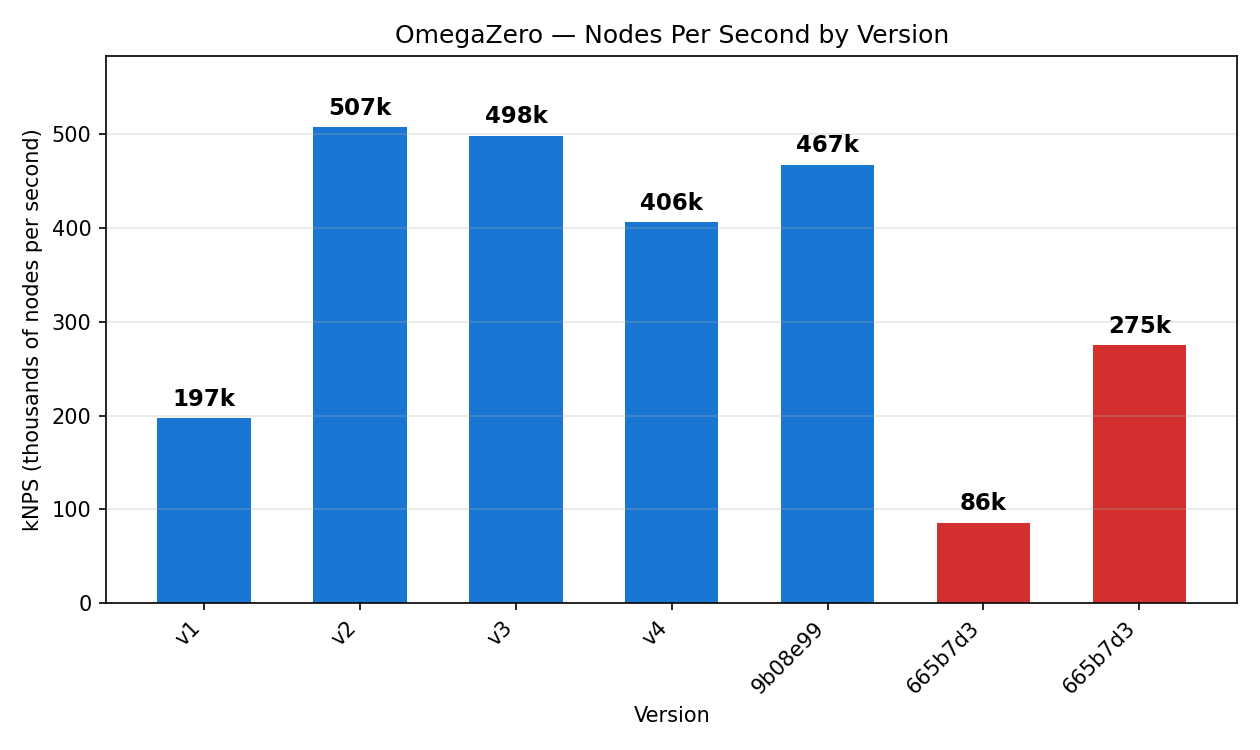
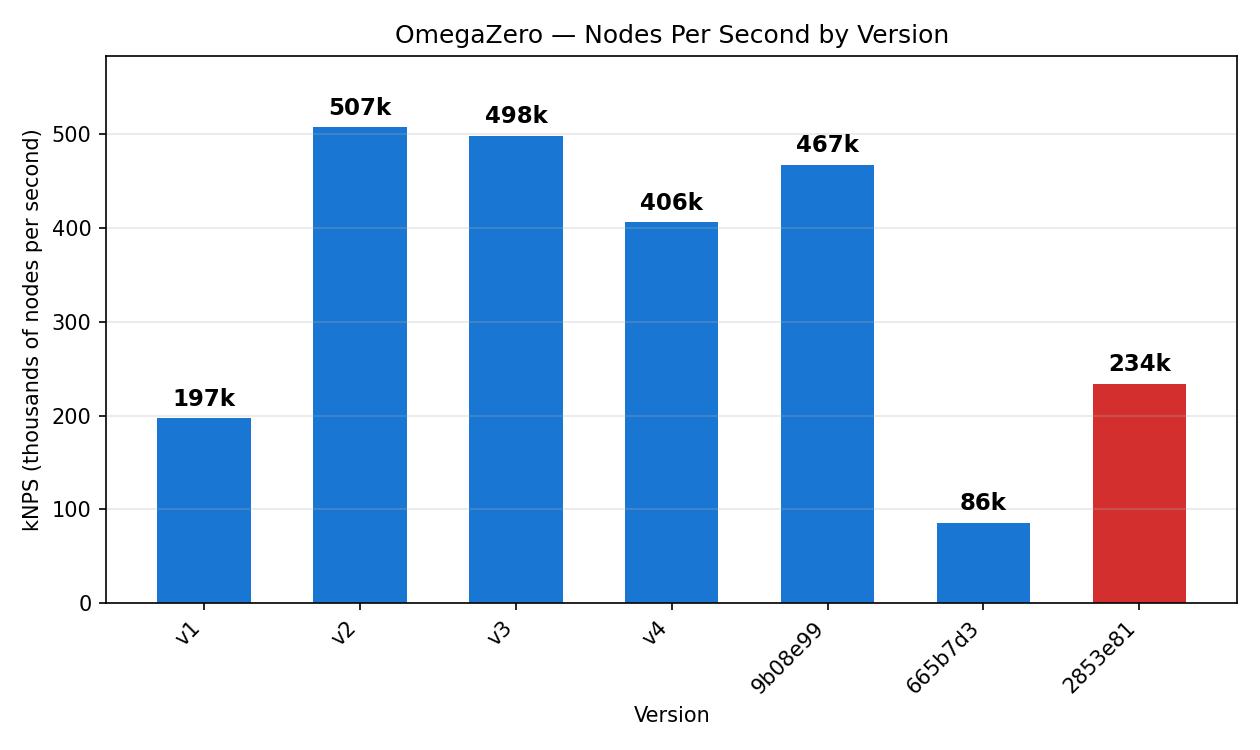
Fix UB bug and save off depth info during benchmarking

diff --git a/scripts/benchmark.py b/scripts/benchmark.py
@@ -13,6 +13,7 @@ Usage:
 import argparse
 import csv
 import os
+import re
 import subprocess
 import sys
 from datetime import datetime
@@ -61,75 +62,88 @@ def run_benchmark(args):
     print(f"Running benchmark ({args.st}s/position)...")
     proc = subprocess.run(
         [str(BENCH_BIN), str(args.st)],
-        capture_output=True, text=True, cwd=REPO_ROOT,
+        stdout=subprocess.PIPE, stderr=subprocess.PIPE, text=True, cwd=REPO_ROOT,
     )
+
+    if proc.stderr:
+        print(proc.stderr, end="")
 
     if proc.returncode != 0:
         print(f"Benchmark failed (exit {proc.returncode})")
-        if proc.stderr:
-            print(proc.stderr)
         sys.exit(1)
 
     lines = proc.stdout.strip().splitlines()
     if not lines:
         sys.exit("No output from benchmark")
 
+    depths = []
+    for line in proc.stderr.splitlines():
+        m = re.match(r"SEARCH DEPTH:\s+(\d+)", line)
+        if m:
+            depths.append(int(m.group(1)))
+
     reader = csv.DictReader(lines)
     rows = list(reader)
 
-    results_csv = run_dir / "results.csv"
-    with open(results_csv, "w", newline="") as f:
+    position_names = [r["position"] for r in rows if r["position"] != "average"]
+    for i, name in enumerate(position_names):
+        if i < len(depths):
+            rows[i]["depth"] = depths[i]
+        else:
+            rows[i]["depth"] = 0
+    for r in rows:
+        r.setdefault("depth", 0)
+
+    nps_csv = run_dir / "nps.csv"
+    with open(nps_csv, "w", newline="") as f:
         w = csv.DictWriter(f, fieldnames=["position", "nodes", "elapsed_s", "nps"])
         w.writeheader()
-        w.writerows(rows)
+        for r in rows:
+            w.writerow({k: r[k] for k in ["position", "nodes", "elapsed_s", "nps"]})
+
+    depths_csv = run_dir / "depths.csv"
+    with open(depths_csv, "w", newline="") as f:
+        w = csv.DictWriter(f, fieldnames=["position", "depth"])
+        w.writeheader()
+        for i, name in enumerate(position_names):
+            w.writerow({"position": name, "depth": depths[i] if i < len(depths) else 0})
 
     avg_row = next((r for r in rows if r["position"] == "average"), None)
     avg_nps = int(avg_row["nps"]) if avg_row else 0
     avg_knps = avg_nps // 1000
 
     print(f"\nResults for {run_name}:")
-    print(f"  {'Position':<12} {'NPS':>10}")
-    print(f"  {'-'*12} {'-'*10}")
+    print(f"  {'Position':<12} {'Depth':>6} {'NPS':>10}")
+    print(f"  {'-'*12} {'-'*6} {'-'*10}")
     for row in rows:
         nps_str = f"{int(row['nps']):,}"
-        print(f"  {row['position']:<12} {nps_str:>10}")
+        print(f"  {row['position']:<12} {row['depth']:>6} {nps_str:>10}")
     print(f"\n  Average NPS: {avg_knps}k")
 
     version = get_version_tag()
-    append_to_history(version, avg_knps, rows)
+    append_to_history(version, avg_knps)
     generate_plots(version)
 
     print(f"\n  Results saved to: {run_dir}")
 
 
-def append_to_history(version, avg_knps, rows):
+def append_to_history(version, avg_knps):
     RESULTS_BASE.mkdir(parents=True, exist_ok=True)
-    history_csv = RESULTS_BASE / "version_history.csv"
+    history_csv = RESULTS_BASE / "version_nps_history.csv"
     timestamp = datetime.now().strftime("%Y-%m-%d %H:%M:%S")
 
     file_exists = history_csv.exists()
     with open(history_csv, "a", newline="") as f:
-        w = csv.DictWriter(f, fieldnames=[
-            "timestamp", "version", "avg_knps",
-            "opening_nps", "midgame_nps",
-            "kiwipete_nps", "endgame_nps",
-        ])
+        w = csv.DictWriter(f, fieldnames=["timestamp", "version", "avg_knps"])
         if not file_exists:
             w.writeheader()
-
-        row_data = {"timestamp": timestamp, "version": version, "avg_knps": avg_knps}
-        for r in rows:
-            pos = r["position"]
-            if pos == "average":
-                continue
-            row_data[f"{pos}_nps"] = r["nps"]
-        w.writerow(row_data)
+        w.writerow({"timestamp": timestamp, "version": version, "avg_knps": avg_knps})
 
     print(f"  Version history: {history_csv}")
 
 
 def load_history():
-    history_csv = RESULTS_BASE / "version_history.csv"
+    history_csv = RESULTS_BASE / "version_nps_history.csv"
     if not history_csv.exists():
         return []
     with open(history_csv) as f:
@@ -199,7 +213,7 @@ def main():
         help="Search time per position in seconds (default: 5.0)",
     )
 
-    sub.add_parser("plot", help="Regenerate plots from version_history.csv")
+    sub.add_parser("plot", help="Regenerate plots from version_nps_history.csv")
 
     args = parser.parse_args()
 

diff --git a/src/engine.cc b/src/engine.cc
@@ -121,9 +121,6 @@ auto Engine::GetBestMove() -> Move {
     }
   }
 
-  // Report search depth, node count, and nodes/sec for performance profiling.
-  // total_nodes_ accumulates in batches of 4096 via CheckSearchTime();
-  // nodes_since_time_check_ holds the remainder that hasn't hit the threshold.
 #ifdef BENCHMARK
   {
     search_depth =

diff --git a/src/board.cc b/src/board.cc
@@ -48,6 +48,7 @@ Board::Board(const string& init_pos) {
     }
   }
   ep_target_sq_ = kNA;
+  halfmove_clock_ = kNA;
   // Initialize player to move as White in case the FEN string doesn't specify.
   player_to_move_ = kWhite;
 
